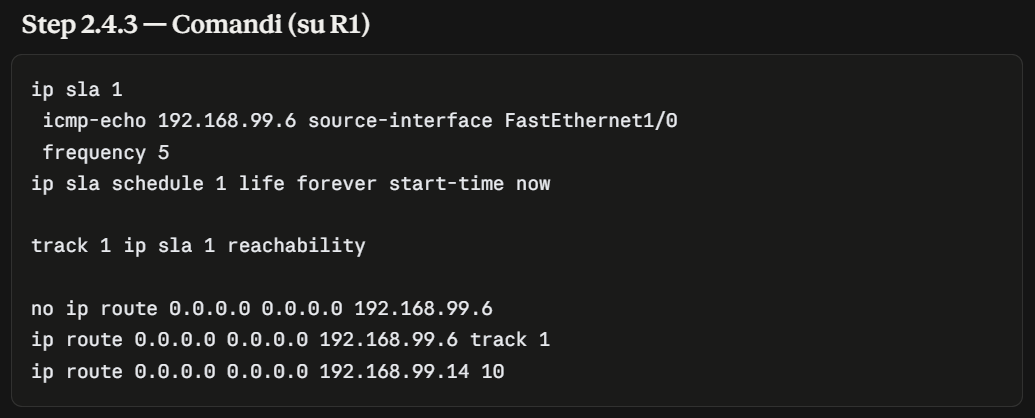
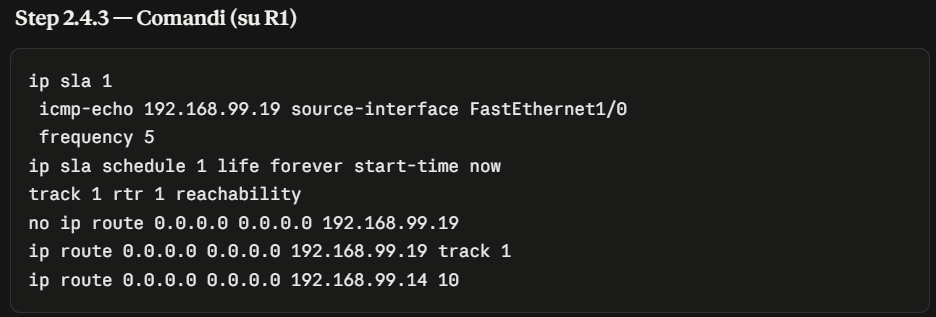
[UPD] step 2.4 ip sla done, aggiunti step 4.3

diff --git a/index.html b/index.html
@@ -2884,7 +2884,7 @@
               </div>
             </div>
           </details>
-          <details class="obj-item status-inprogress">
+          <details class="obj-item status-done">
             <summary>
               <span class="obj-text">2.4 — Collegamento punto-punto R1↔R2</span>
             </summary>
@@ -2980,16 +2980,22 @@
                   alt="Topologia di rete aggiornata v1.1 - canvas GNS3"
                   class="obj-image"
                 />
+                <br>
+                <img
+                  src="./img/IP_SLA_Route_Backup_Route_Default_R2.png"
+                  alt="Topologia di rete aggiornata v1.1 - canvas GNS3"
+                  class="obj-image"
+                />
                 <ul class="config-explain">
                   <li><code>ip sla 1 :</code>Crea un'istanza di monitoraggio IP SLA identificata con il numero 1</li>
-                  <li><code>icmp-echo 192.168.99.6 source-interface FastEthernet1/0 : </code>Configura il probe per inviare i ping verso FW-1,
+                  <li><code>icmp-echo 192.168.99.19 source-interface FastEthernet1/0 : </code>Configura il probe per inviare i ping verso FW-1,
                   specificando esplicitamente l'interfaccia sorgente</li>
                   <li><code>frequency 5 :</code>Ripete il probe ogni 5 secondi</li>
                   <li><code>ip sla schedule 1 life forever start-time now :</code>Avvia il probe immediatamente, per una durata indefinita</li>
                   <li><code>track 1 rtr 1 reachability :</code>Crea l'oggetto di tracking collegato al probe</li>
-                  <li><code>no ip route 0.0.0.0 0.0.0.0 192.168.99.6 :</code>Rimuove la route di default creata al punto 2.3.3</li>
-                  <li><code>ip route 0.0.0.0 0.0.0.0 192.168.99.6 track 1 :</code>Ricrea la route di default primaria, ora pero collegata all'oggetto di tracking</li>
-                  <li><code>ip route 0.0.0.0 0.0.0.0 192.168.99.14 10 :</code>Crea la route di default verso R2, con distanza amministrativa 10</li>
+                  <li><code>no ip route 0.0.0.0 0.0.0.0 192.168.99.19 :</code>Rimuove la route di default creata al punto 2.3.3</li>
+                  <li><code>ip route 0.0.0.0 0.0.0.0 192.168.99.19 track 1 :</code>Ricrea la route di default primaria, ora pero collegata all'oggetto di tracking</li>
+                  <li><code>ip route 0.0.0.0 0.0.0.0 192.168.99.n 10 :</code>Crea la route di default verso R2, con distanza amministrativa 10</li>
                 </ul>
                 <br>
                 <p>I tre pezzi del meccanismo si parlano in questo modo :</p>
@@ -4270,6 +4276,64 @@
                   <li>
                     Verifica end-to-end
                   </li>
+                </ul>
+              </div>
+              <br>
+              <div class="obj-trace">
+                <h4>4.3.1 - Configurazione IP statico su porta 2 Firewall</h4>
+                <p>
+                  Configuriamo l'interfaccia port2 del cluster FortiGate con l'indirizzo IP statico sul segmento condiviso 192.168.99.16/29, 
+                  raggiungibile da entrambi i router (R1 e R2) tramite SW-TRANSIT.
+                </p>
+                <br>
+                <img
+                  src="./img/Configurazione_IP_statico_FW.png"
+                  alt="Traccia configurazioni - canvas GNS3"
+                  class="obj-image"
+                />
+                <br>
+                <ul class="config-explain">
+                  <li><code>config system interface :</code>entra nel contesto di configurazione delle interfacce di rete del FortiGate</li>
+                  <li><code>edit "port2" :</code>seleziona l'interfaccia fisica port2, quella collegata a SW-TRANSIT</li>
+                  <li><code>set mode static :</code>imposta l'interfaccia su indirizzo IP statico, invece di DHCP o nessun indirizzo</li>
+                  <li><code>set ip 192.168.99.19 255.255.255.248 :</code>assegna l'indirizzo e la subnet mask dedicata secondo il piano di indirizzamento (192.168.99.16/29, condiviso con R1 e R2 tramite SW-TRANSIT)</li>
+                  <li><code>set allowaccess ping :</code>consente risposte ICMP sull'interfaccia, necessario perché i probe IP SLA di R1 e R2 ricevano effettivamente risposta e il tracking possa passare a "Up"</li>
+                  <li><code>next :</code>conferma le modifiche all'oggetto corrente e passa al successivo (se presente) nello stesso blocco edit</li>
+                  <li><code>end :</code>esce dal blocco di configurazione e applica le modifiche</li>
+                </ul>
+                <br>
+                <h4>Comandi di diagnostica</h4>
+                <ul class="config-explain">
+                  <li><code>get system interface physical :</code>conferma che port2 mostri ip: 192.168.99.19 255.255.255.248 e status: up su entrambi i nodi del cluster (sincronizzazione automatica, come già verificato).</li>
+                </ul>
+              </div>
+              <br>
+              <div class="obj-trace">
+                <h4>4.3.2 - Rotta statica verso la rete interna (192.168.0.0/24)</h4>
+                <p>
+                  Il FortiGate non conosce direttamente le VLAN interne — ci arriva solo attraverso R1. 
+                  Configuriamo quindi una rotta statica che gli indichi il percorso per raggiungere quel blocco, necessaria per il traffico di ritorno verso i client interni.
+                </p>
+                <br>
+                <img
+                  src="./img/FW_Configurazione_rotta_rete_interna.png"
+                  alt="Traccia configurazioni - canvas GNS3"
+                  class="obj-image"
+                />
+                <br>
+                <ul class="config-explain">
+                  <li><code>config router static :</code>entra nel contesto di configurazione delle rotte statiche</li>
+                  <li><code>edit 1 :</code>crea la voce di rotta con numero di sequenza 1</li>
+                  <li><code>set dst 192.168.0.0 255.255.255.0 :</code>la destinazione: l'intero blocco che racchiude tutte e 4 le VLAN</li>
+                  <li><code>set gateway 192.168.99.17 :</code>il next-hop è R1, sul segmento condiviso 192.168.99.16/29 raggiunto tramite SW-TRANSIT</li>
+                  <li><code>set device "port2" :</code>l'interfaccia fisica da cui instradare questo traffico</li>
+                  <li><code>next / end :</code>confermano la voce e chiudono il blocco di configurazione</li>
+                </ul>
+                <br>
+                <h4>Comandi di diagnostica</h4>
+                <ul class="config-explain">
+                  <li><code>show router static :</code>show router static deve mostrare la voce appena creata con gateway 192.168.99.17</li>
+                  <li><code>get router info routing-table static :</code>get router info routing-table static deve mostrare la rotta verso 192.168.0.0/24 effettivamente installata, tramite port2</li>
                 </ul>
               </div>
             </div>
